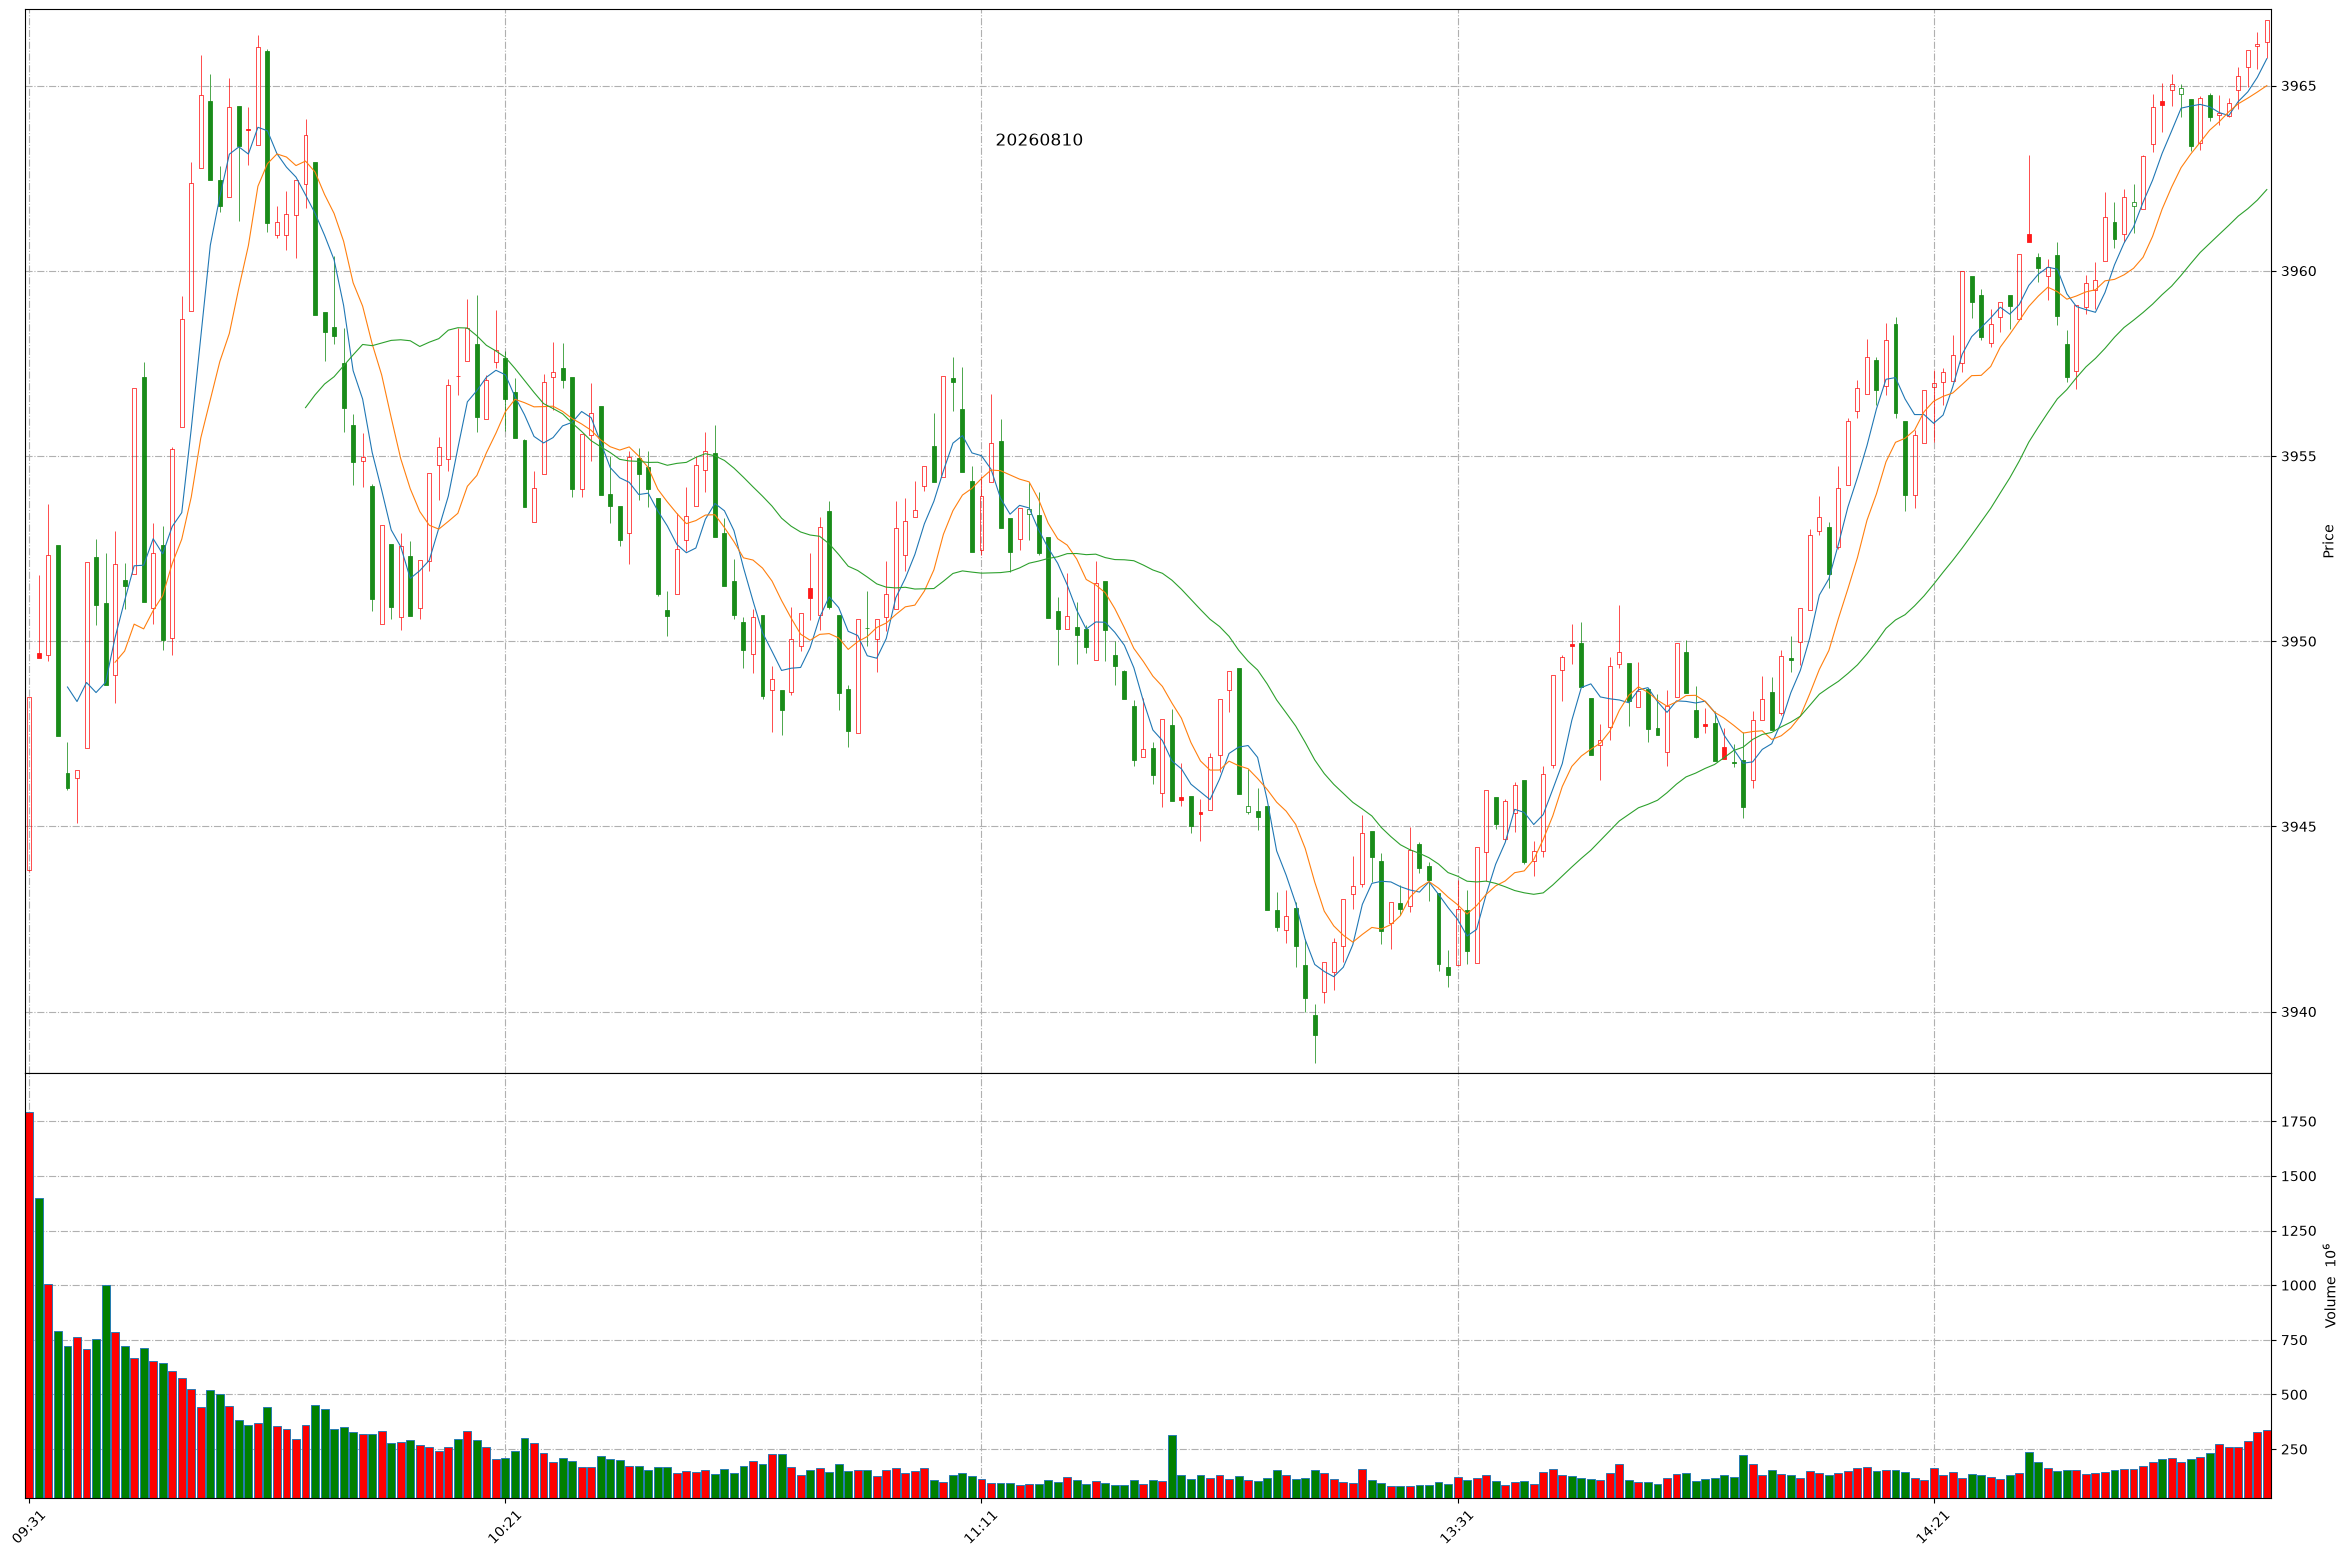
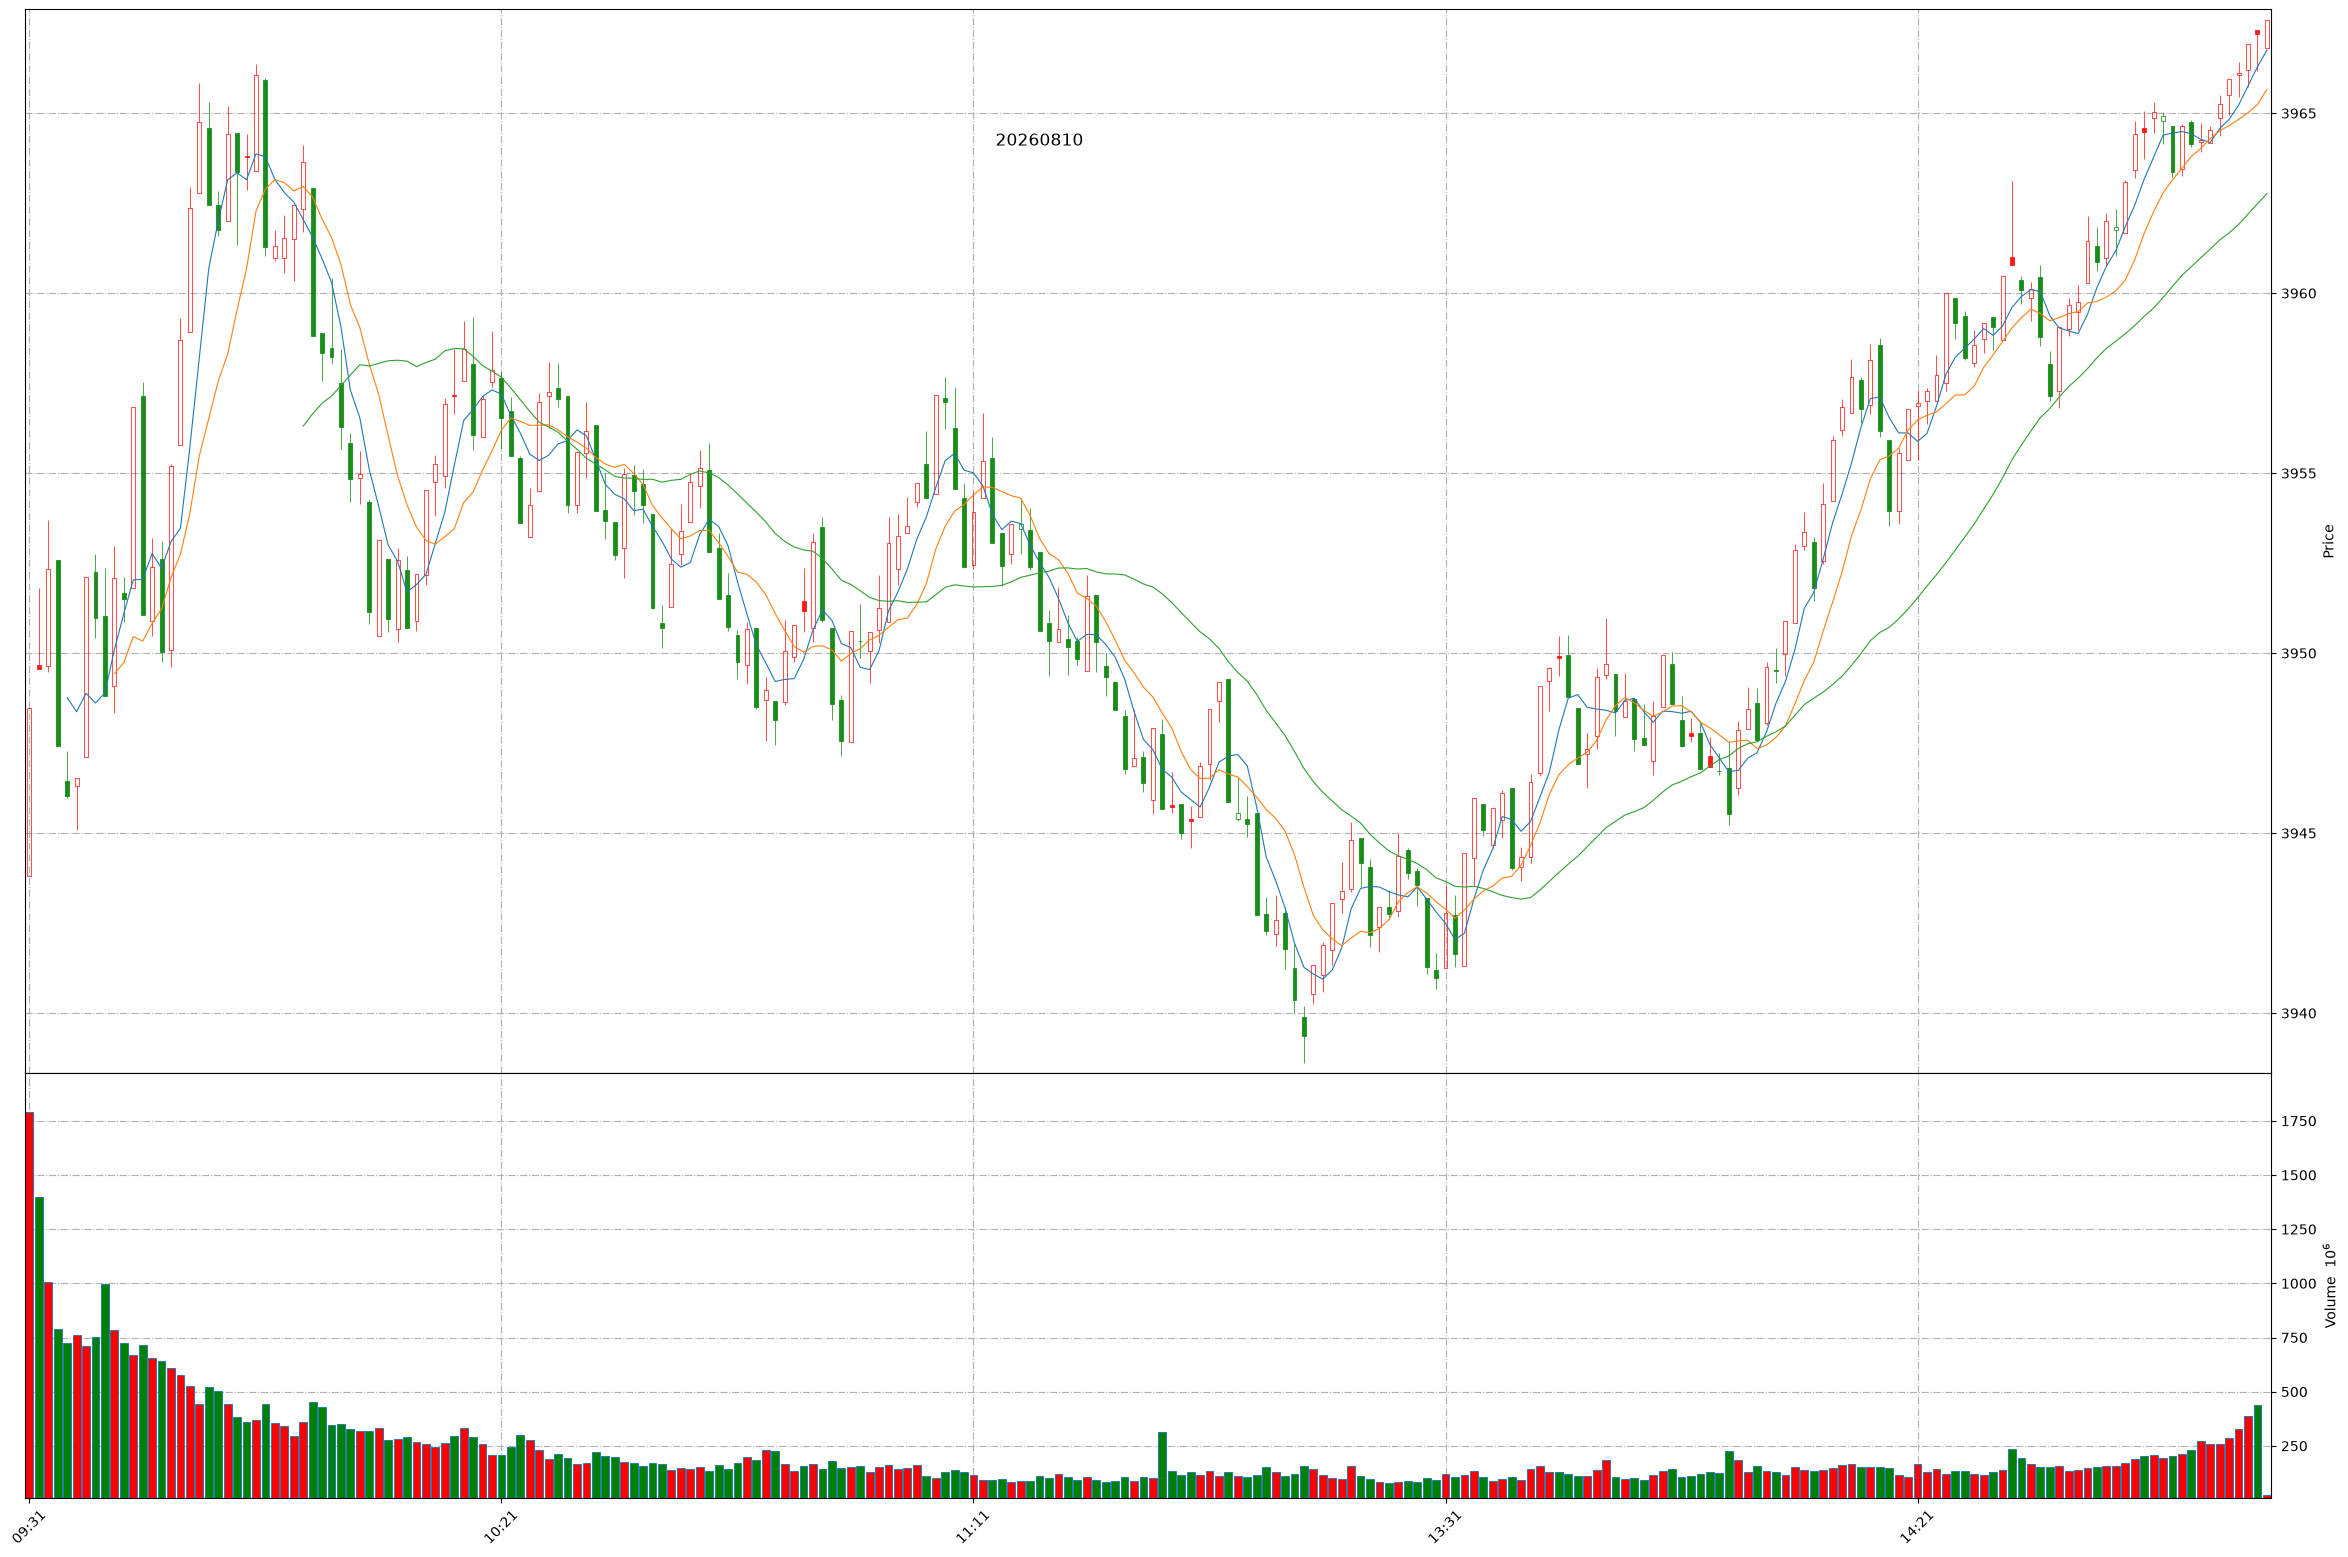
Github action update at 2026-08-10 14:59:09.

diff --git a/README.md b/README.md
@@ -1,11 +1,11 @@
 
 # Daily-A-share-market-quotes 每日 A 股指数（5min 更新）- 20260810
 
-### 上证指数 20260810 14:56
+### 上证指数 20260810 14:59
 ![](./fig/2026/8/20260810-sh000001.png)
 
-### 深证成指 20260810 14:56
+### 深证成指 20260810 14:59
 ![](./fig/2026/8/20260810-sz399001.png)
 
-### 北证50 20260810 14:56
+### 北证50 20260810 14:59
 ![](./fig/2026/8/20260810-bj899050.png)
